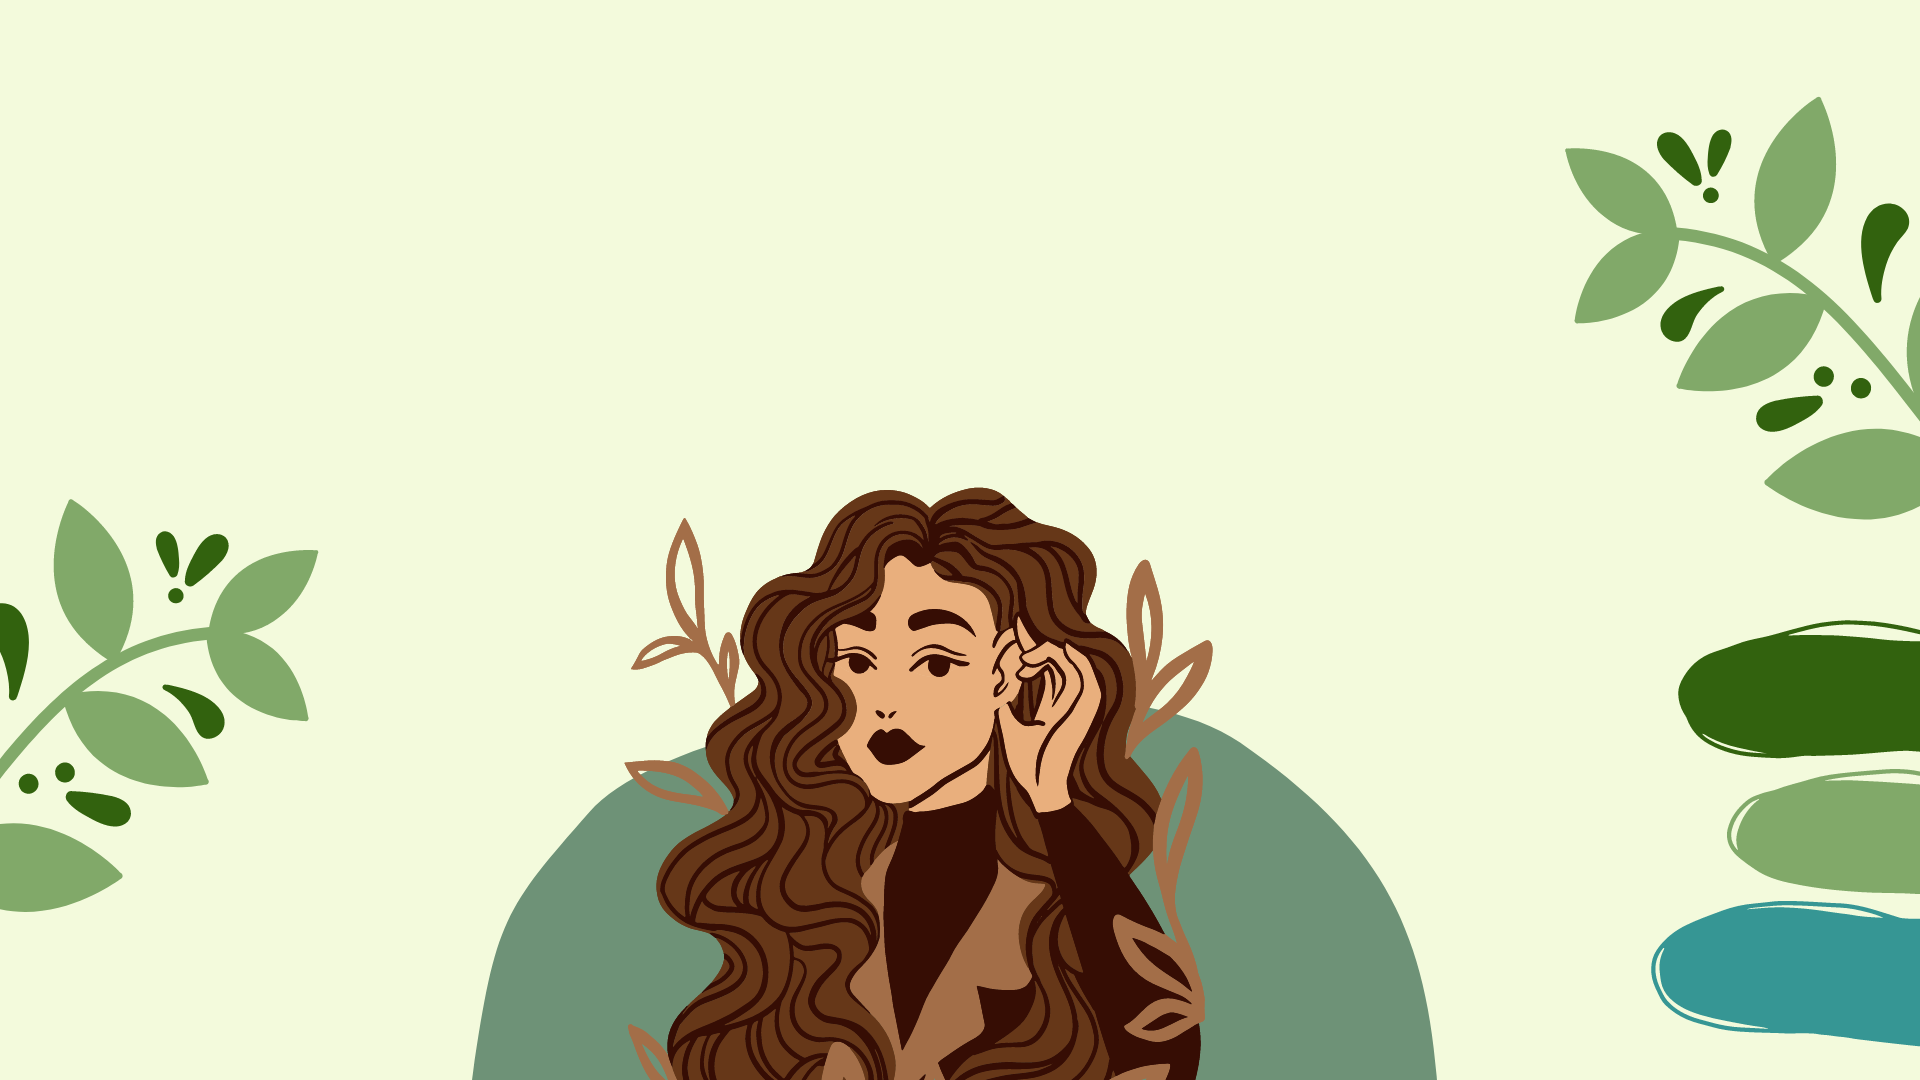
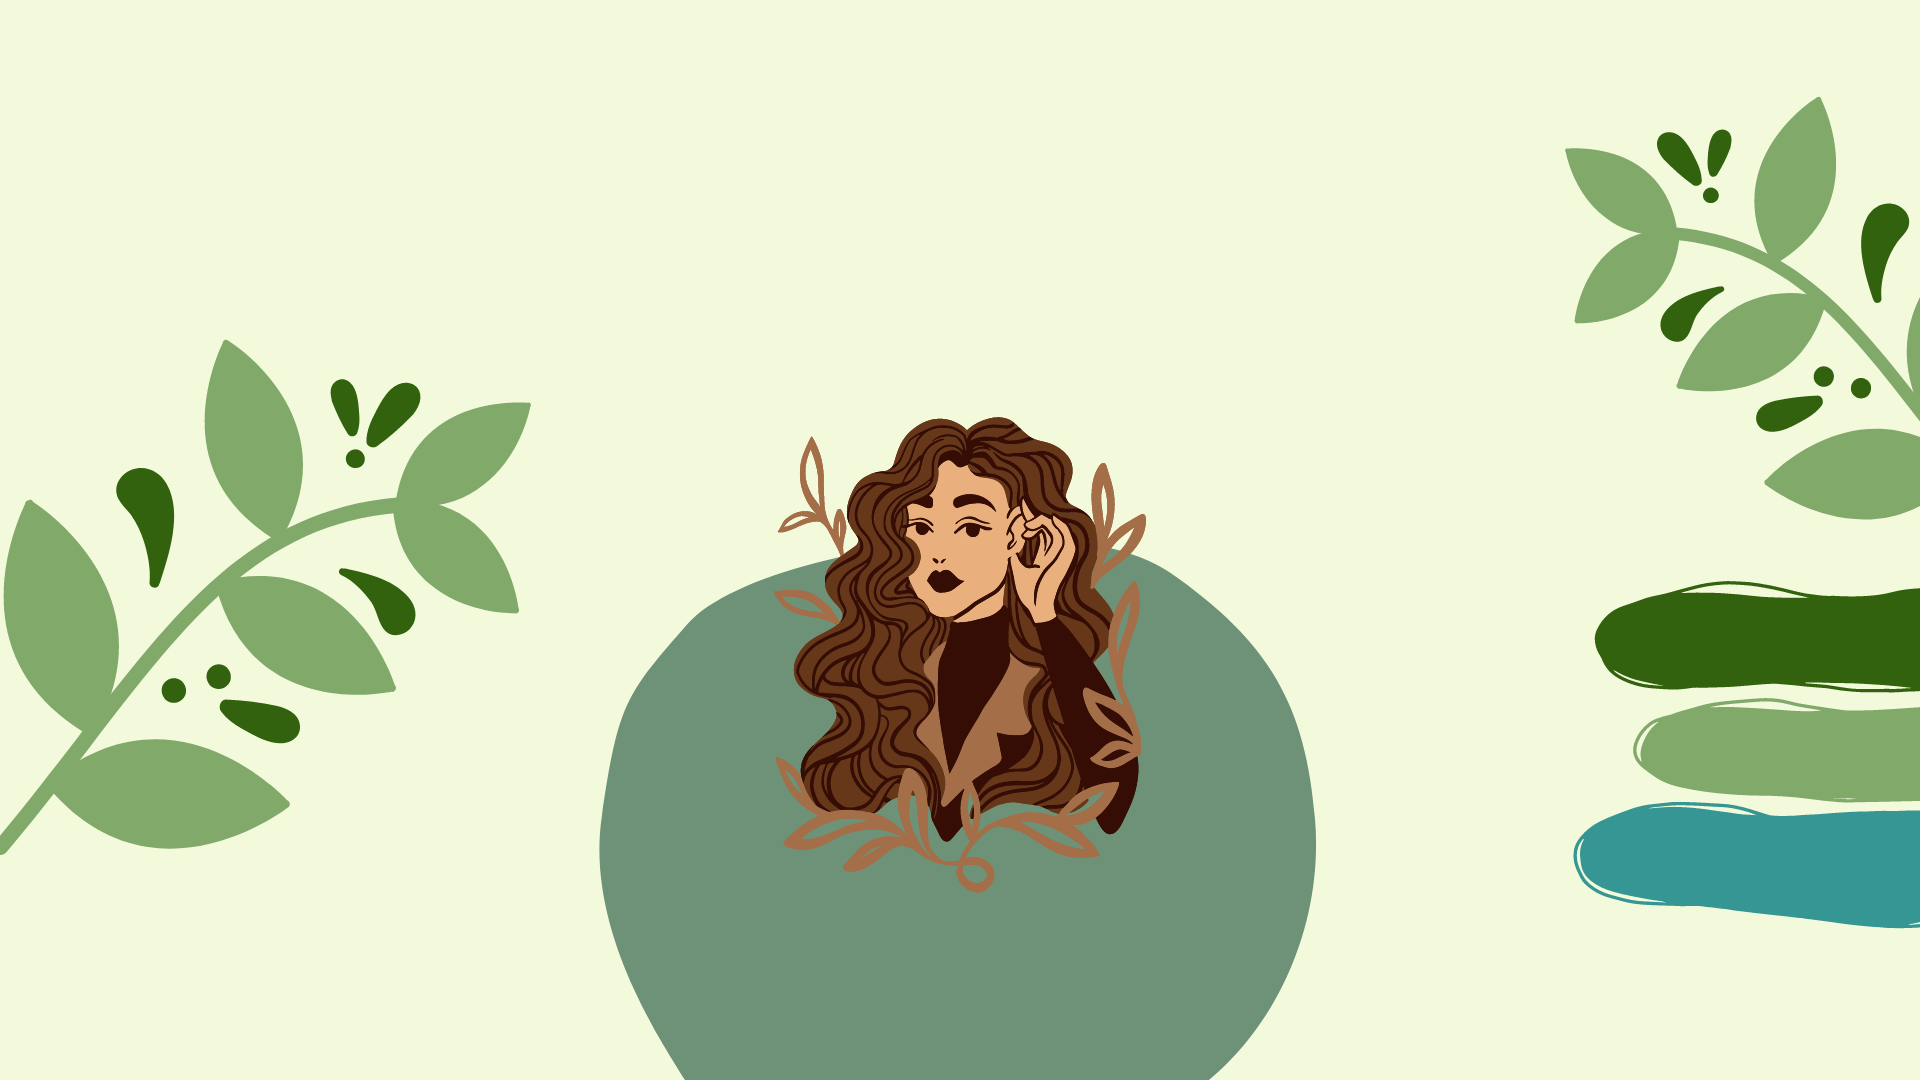
sara

Changed region(s): [[0.2188, 0.3667, 0.75, 1.0], [0.0, 0.3056, 0.2812, 0.8556], [0.8125, 0.5194, 1.0, 0.9778]]

diff --git a/about_me.html b/about_me.html
@@ -59,7 +59,7 @@
 	<center> <img src="images/image_myself.jpg"; style="height: 500px; width: 400px;"></center>
 
 
-	<p style="color: black; font-family: sans-serif; font-size: 20px; text-align: center;">Hi There! My Name Is Yumni Maisara Binti Amran. On April This Year, I Will Officially Am 21 Years Old. I Live In Kelantan And I Am Also Studying In University Teknologi Malaysia In Kelantan Too. I Am On My Fifth Semester, Which Is My Last Year, In Information Management.</p>
+	<p style="color: black; font-family: playfair; font-size: 20px; text-align: center;">Hi There! My Name Is Yumni Maisara Binti Amran. On April This Year, I Will Officially Am 21 Years Old. I Live In Kelantan And I Am Also Studying In University Teknologi Malaysia In Kelantan Too. I Am On My Fifth Semester, Which Is My Last Year, In Information Management.</p>
 
 	<p style="color: darkgreen; font-family: monospace; text-align: center; font-size: 30px; padding: 10px;"> <b><i>How To Describe Myself</i></b></p>
 

diff --git a/family.html b/family.html
@@ -54,7 +54,7 @@
 	<h2 style="background-color: darkolivegreen; text-align: center; font-family: sans-serif; font-size: 40px; color: white;">F A M I L Y</h2>
 	<h2 style="font-size: 40px; color: darkolivegreen; text-align: center;"><b>MY BELOVED FAMILY</b></h2>
 
-		<p style="color: white; font-family: sans-serif; font-size: 30px; text-align: center;">I am the third children of four siblings. And we are one HAPPY FAMILY <3 !</p>
+		<p style="color: darkolivegreen; font-family: sans-serif; font-size: 30px; text-align: center;">I am the third children of four siblings. And we are one HAPPY FAMILY <3 !</p>
 
 <center><img src="images/image_family.jpg"; style="height: 400px; width: 400px;"></center>
 
@@ -88,7 +88,7 @@
 <table style="width: 100%" border="solid">
 	<h2 style="font-size: 40px; color: darkolivegreen; text-align: center;"><b>Diary of The Love of My Life</b></h2>
 	<tr>
-		<th> BIL </th>
+		<th> NO. </th>
 		<th> NAME </th>
 		<th> RELATION </th>
 		<th> STATUS </th>

diff --git a/index.html b/index.html
@@ -9,7 +9,7 @@
     }
 
   </style>
-
+ 
 
 	<meta charset="utf-8">
 	<meta name="viewport" content="width=device-width, initial-scale=1">

diff --git a/style.css b/style.css
@@ -3,7 +3,6 @@ body
   background-size: 1400px;
   padding: 0;
   margin: 0;
-  overflow: hidden;
   text-align: center;
 }
 
